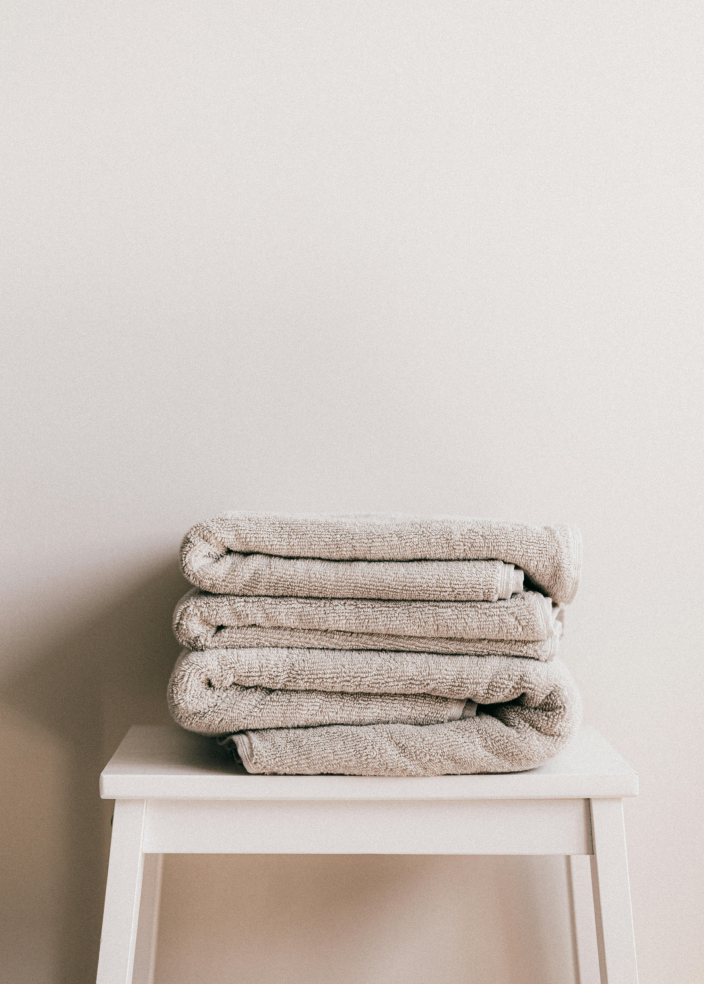
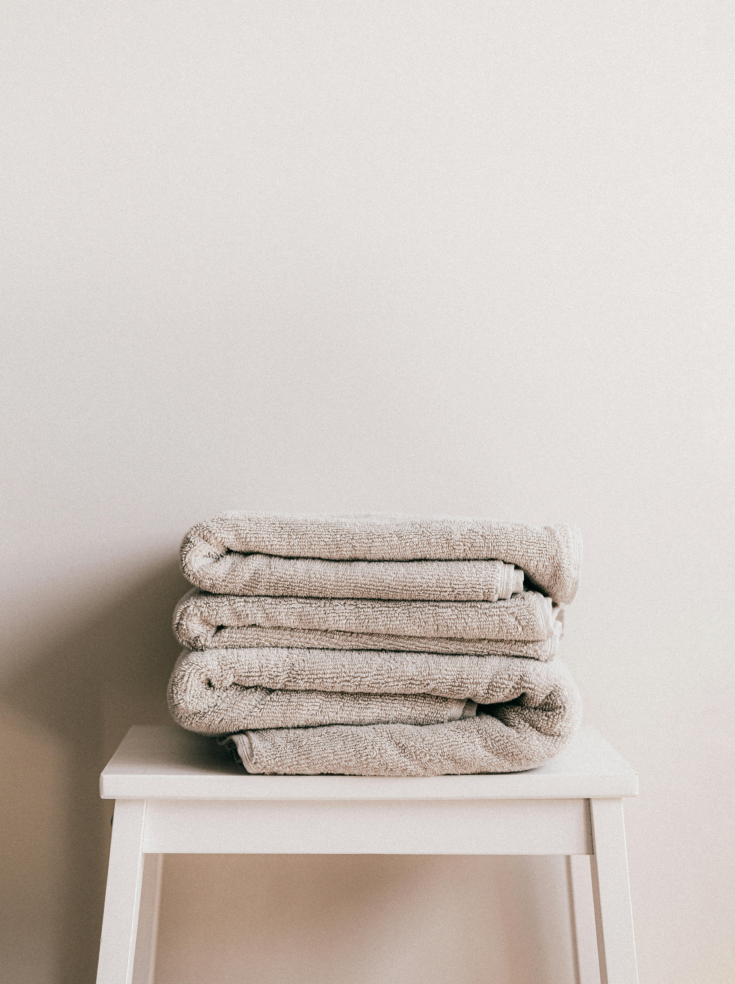
added better version of home image

diff --git a/src/pages/Home.js b/src/pages/Home.js
@@ -1,5 +1,5 @@
 import React from "react";
-import homtImg from "../assets/images/homeImg/pexels-karolina-grabowska-4210376.png";
+import homtImg from "../assets/images/homeImg/hero-image.jpg";
 import logo from "../assets/images/logo/Logo Icon@4x 1.png";
 
 import About from "./About";
